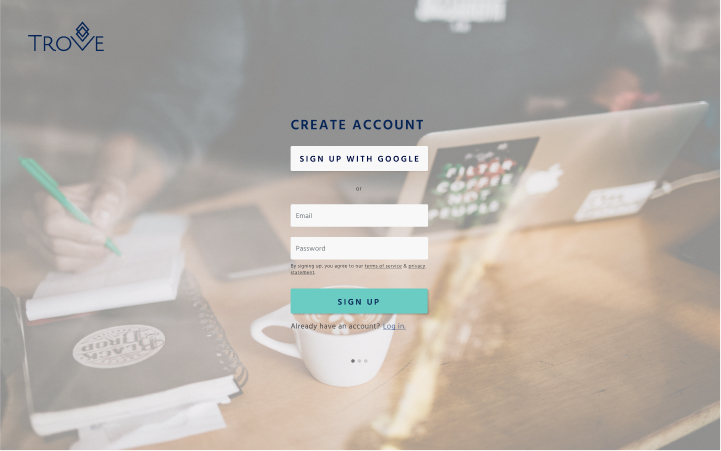
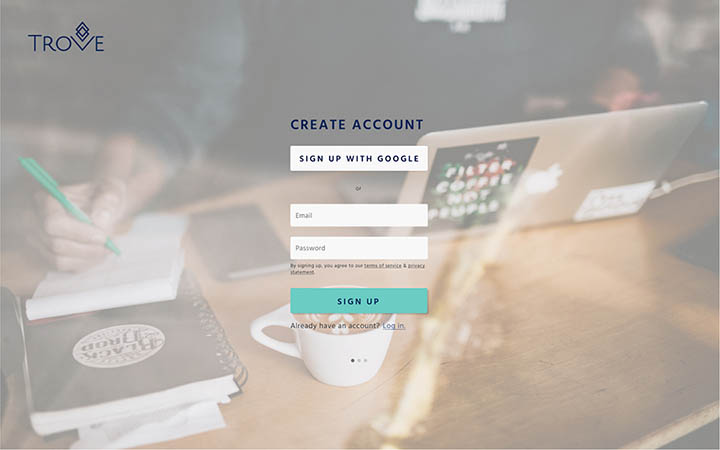
image optimization

diff --git a/project.html b/project.html
@@ -44,7 +44,7 @@
         </div>
         <div class="mobile-menu-list-container">
           <ul class="mobile-menu-list">
-            <a href="index.html" aria-label="my work">
+            <a href="index.html#featured-work" aria-label="my work">
               <li onclick="toggleMobileMenuItem()">Work</li>
             </a>
             <a href="about.html" aria-label="about me">
@@ -66,7 +66,7 @@
         <a href="index.html" aria-label="my work"><img src="assets/img/desktop-logo-LH.svg" alt="Laura Hundersmarck Logo"></img>
         </a>
         <ul>
-          <li><a href="index.html" aria-label="my work">Work</a></li>
+          <li><a href="index.html#featured-work" aria-label="my work">Work</a></li>
           <li><a href="about.html" aria-label="about page">About</a></li>
           <li>
             <div class="nav-button">
@@ -446,22 +446,22 @@
           </div>
           <div class="teal-background">
             <figure class="wireframe-group-flex-container">
-              <img data-aos-easing="ease" data-aos-duration="1500" data-aos-delay="0" data-aos="fade-in" class="project-image wireframe-img" srcset="assets/img-project/wireframe1-dashboard-720w.png 720w,
+              <img  class="project-image wireframe-img" srcset="assets/img-project/wireframe1-dashboard-720w.png 720w,
               assets/img-project/wireframe1-dashboard-1440w.png 1440w" sizes: "(max-width: 720px) 720px, 1440px" src="assets/img-project/wireframe1-dashboard-1440w.png" alt="Low-fi Wireframe of the main dashboard">
               </img>
-              <img data-aos-easing="ease" data-aos-duration="1500" data-aos-delay="0" data-aos="fade-in"class="project-image wireframe-img" srcset="assets/img-project/wireframe2-add-720w.png 720w,
+              <img class="project-image wireframe-img" srcset="assets/img-project/wireframe2-add-720w.png 720w,
               assets/img-project/wireframe2-add-1440w.png 1440w" sizes: "(max-width: 720px) 720px, 1440px" src="assets/img-project/wireframe2-add-1440w.png" alt="Low-fi Wireframe of how to add a note">
               </img>
-              <img data-aos-easing="ease" data-aos-duration="1500" data-aos-delay="0" data-aos="fade-in" class="project-image wireframe-img" srcset="assets/img-project/wireframe3-view-tags-720w.png 720w,
+              <img class="project-image wireframe-img" srcset="assets/img-project/wireframe3-view-tags-720w.png 720w,
               assets/img-project/wireframe3-view-tags-1440w.png 1440w" sizes: "(max-width: 720px) 720px, 1440px" src="assets/img-project/wireframe3-view-tags-1440w.png" alt="Low-fi Wireframe of the tags page">
               </img>
-              <img data-aos-easing="ease" data-aos-duration="1500" data-aos-delay="0" data-aos="fade-in" class="project-image wireframe-img" srcset="assets/img-project/wireframe4-bookmark-added-720w.png 720w,
+              <img  class="project-image wireframe-img" srcset="assets/img-project/wireframe4-bookmark-added-720w.png 720w,
               assets/img-project/wireframe4-bookmark-added-1440w.png 1440w" sizes: "(max-width: 720px) 720px, 1440px" src="assets/img-project/wireframe4-bookmark-added-1440w.png" alt="Low-fi Wireframe of confirmation screen when user adds a bookmark">
               </img>
-              <img data-aos-easing="ease" data-aos-duration="1500" data-aos-delay="0" data-aos="fade-in" class="project-image wireframe-img" srcset="assets/img-project/wireframe5-tag-720w.png 720w,
+              <img  class="project-image wireframe-img" srcset="assets/img-project/wireframe5-tag-720w.png 720w,
               assets/img-project/wireframe5-tag-1440w.png 1440w" sizes: "(max-width: 720px) 720px, 1440px" src="assets/img-project/wireframe5-tag-1440w.png" alt="Low-fi Wireframes of saving a link">
               </img>
-              <img data-aos-easing="ease" data-aos-duration="1500" data-aos-delay="0" data-aos="fade-in" class="project-image wireframe-img" srcset="assets/img-project/wireframe6-shared-720w.png 720w,
+              <img  class="project-image wireframe-img" srcset="assets/img-project/wireframe6-shared-720w.png 720w,
               assets/img-project/wireframe6-shared-1440w.png 1440w" sizes: "(max-width: 720px) 720px, 1440px" src="assets/img-project/wireframe6-shared-1440w.png" alt="Low-fi Wireframe showing shared items">
               </img>
             </figure>
@@ -557,9 +557,7 @@
           </div>
           <figure class="logo-figure">
             <img class="project-image" srcset="assets/img-project/trove-logo-480w.png 480w,
-            assets/img-project/trove-logo-720w.png 720w,
-            assets/img-project/trove-logo-960w.png 960w" sizes: "(max-width:480px) 480px,
-            (max-width: 720px) 720px, 960px" src="assets/img-project/trove-logo-960w.png" alt="Image of early sketches and final logo">
+            assets/img-project/trove-logo-720w.png 720w" sizes: "(max-width:480px) 480px, 720px" src="assets/img-project/trove-logo-720w.png" alt="Image of early sketches and final logo">
             </img>
             <figcaption>Early logo sketches [first row], three logo directions [second row], and the final logo [third row].</figcaption>
           </figure>
@@ -585,11 +583,15 @@
             <figure class="a-b-flex-container">
               <div class="option-a">
                 <p class="a-b-header"><span>Screen A</span></p>
-                <img class="a-b-img" srcset="assets/img-project/landing-page-hero-720w.jpg 720w,
-                assets/img-project/landing-page-hero-1080w.jpg 1080w" sizes: "(max-width: 720px) 720px, 1080px" src="assets/img-project/landing-page-hero-1080w.jpg" alt="Product hero image">
+                <img class="a-b-img"
+                srcset="assets/img-project/landing-page-hero-720w.jpg 720w,
+                assets/img-project/landing-page-hero-900w.jpg 900w"
+                sizes: "(max-width: 720px) 720px, 900px"
+                src="assets/img-project/landing-page-hero-900w.jpg" alt="Product hero image">
                 </img>
                 <img class="a-b-img" srcset="assets/img-project/testing-signup-a-720w.jpg 720w,
-                assets/img-project/testing-signup-a-1080w.jpg 1080w" sizes: "(max-width: 720px) 720px, 1080px" src="assets/img-project/testing-signup-a-1080w.jpg" alt="Product sign up screen A">
+                assets/img-project/testing-signup-a-900w.jpg 900w" sizes: "(max-width: 720px) 720px, 900px"
+                src="assets/img-project/testing-signup-a-900w.jpg" alt="Product sign up screen A">
                 </img>
                 <figcaption>Hero image [above] and sign up screen [below]</figcaption>
               </div>
@@ -600,19 +602,19 @@
                 <img class="a-b-img"
                   srcset=
                   "assets/img-project/landing-page-hero-720w.jpg 720w,
-                  assets/img-project/landing-page-hero-1080w.jpg 1080w"
+                  assets/img-project/landing-page-hero-900w.jpg 900w"
                   sizes:
                   "(max-width: 720px) 720px,1080px"
-                  src="assets/img-project/landing-page-hero-1080w.jpg"
+                  src="assets/img-project/landing-page-hero-900w.jpg"
                   alt="Product hero image">
                 </img>
                 <img class="a-b-img"
                   srcset=
                   "assets/img-project/testing-signup-b-720w.jpg 720w,
-                  assets/img-project/testing-signup-b-1080w.jpg 1080w"
+                  assets/img-project/testing-signup-b-900w.jpg 900w"
                   sizes:
-                  "(max-width: 720px) 720px, 1080px"
-                  src="assets/img-project/testing-signup-b-1080w.jpg"
+                  "(max-width: 720px) 720px, 900px"
+                  src="assets/img-project/testing-signup-b-900w.jpg"
                   alt="Product sign up screen B">
                 </img>
                 <figcaption class="centered-caption">Hero image [above] and sign up screen [below]</figcaption>
@@ -689,7 +691,8 @@
             </div>
             <figure class="testing-2-fig-flex-container">
               <div class="testing-2-before">
-                <img class="project-image testing-tags"  src="assets/img-project/hifi-testing-tags-before-552w.png" alt="content card showing tags">
+                <img class="project-image testing-tags" srcset="assets/img-project/hifi-testing-tags-before-450w.png 450w,
+                  assets/img-project/hifi-testing-tags-before-600w.png 600w" sizes: "(max-width: 500px) 450px, 600px"  src="assets/img-project/hifi-testing-tags-before-600w.png" alt="content card showing tags">
                 </img>
                 <figcaption>Before - Tags shown on content cards</figcaption>
               </div>
@@ -698,7 +701,8 @@
                 <img class="curved-arrow" src="assets/img-project/curved-arrow.svg" alt="Curved arrow"></img>
               </div>
               <div class="testing-2-after">
-                <img class="project-image testing-tags" src="assets/img-project/hifi-testing-tags-after-552w.png" alt="content card showing tag icon">
+                <img class="project-image testing-tags" srcset="assets/img-project/hifi-testing-tags-after-450w.png 450w,
+                  assets/img-project/hifi-testing-tags-after-600w.png 600w" sizes: "(max-width: 500px) 450px, 600px"  src="assets/img-project/hifi-testing-tags-after-600w.png" alt="content card showing tag icon">
                 </img>
                 <figcaption>After - Tags collapsed to an icon and dropdown menu</figcaption>
               </div>
@@ -737,46 +741,46 @@
         </div>
         <div data-aos-easing="ease" data-aos-duration="1500" data-aos-delay="0" data-aos="fade-in" class="gray-background">
           <figure class="prototype-flex-container">
-            <img data-aos-easing="ease" data-aos-duration="1500" data-aos-delay="0" data-aos="fade-in" class="project-image" srcset="assets/img-project/prototype-screen1-720w.jpg 720w,
+            <img class="project-image" srcset="assets/img-project/prototype-screen1-720w.jpg 720w,
               assets/img-project/prototype-screen1-900w.jpg 900w, assets/img-project/prototype-screen1-1440w.jpg 1440w" sizes: "(max-width: 800px) 720px, (max-width: 1200px) 900px, 1440px" src="assets/img-project/prototype-screen1-1440w.jpg" alt="Trove Product: Sign up screen">
             </img>
-            <img data-aos-easing="ease" data-aos-duration="1500" data-aos-delay="0" data-aos="fade-in" class="project-image" srcset="assets/img-project/prototype-screen2-720w.jpg 720w,
+            <img class="project-image" srcset="assets/img-project/prototype-screen2-720w.jpg 720w,
               assets/img-project/prototype-screen2-900w.jpg 900w, assets/img-project/prototype-screen2-1440w.jpg 1440w" sizes: "(max-width: 800px) 720px, (max-width: 1200px) 900px, 1440px" src="assets/img-project/prototype-screen2-1440w.jpg" alt="Trove Product: Password Reset screen">
             </img>
-            <img data-aos-easing="ease" data-aos-duration="1500" data-aos-delay="0" data-aos="fade-in" class="project-image" srcset="assets/img-project/prototype-screen3-720w.jpg 720w,
+            <img  class="project-image" srcset="assets/img-project/prototype-screen3-720w.jpg 720w,
               assets/img-project/prototype-screen3-900w.jpg 900w, assets/img-project/prototype-screen3-1440w.jpg 1440w" sizes: "(max-width: 800px) 720px, (max-width: 1200px) 900px, 1440px" src="assets/img-project/prototype-screen3-1440w.jpg" alt="Trove Product: Blank state dashboard">
             </img>
-            <img data-aos-easing="ease" data-aos-duration="1500" data-aos-delay="0" data-aos="fade-in" class="project-image" srcset="assets/img-project/prototype-screen4-720w.jpg 720w,
+            <img  class="project-image" srcset="assets/img-project/prototype-screen4-720w.jpg 720w,
               assets/img-project/prototype-screen4-900w.jpg 900w, assets/img-project/prototype-screen4-1440w.jpg 1440w" sizes: "(max-width: 800px) 720px, (max-width: 1200px) 900px, 1440px" src="assets/img-project/prototype-screen4-1440w.jpg" alt="Trove Product: Main dashboard">
             </img>
-            <img data-aos-easing="ease" data-aos-duration="1500" data-aos-delay="0" data-aos="fade-in" class="project-image" srcset="assets/img-project/prototype-screen5-720w.jpg 720w,
+            <img class="project-image" srcset="assets/img-project/prototype-screen5-720w.jpg 720w,
               assets/img-project/prototype-screen5-900w.jpg 900w, assets/img-project/prototype-screen5-1440w.jpg 1440w" sizes: "(max-width: 800px) 720px, (max-width: 1200px) 900px, 1440px" src="assets/img-project/prototype-screen5-1440w.jpg" alt="Trove Product: Upload files">
             </img>
-            <img data-aos-easing="ease" data-aos-duration="1500" data-aos-delay="0" data-aos="fade-in" class="project-image" srcset="assets/img-project/prototype-screen6-720w.jpg 720w,
+            <img class="project-image" srcset="assets/img-project/prototype-screen6-720w.jpg 720w,
               assets/img-project/prototype-screen6-900w.jpg 900w, assets/img-project/prototype-screen6-1440w.jpg 1440w" sizes: "(max-width: 800px) 720px, (max-width: 1200px) 900px, 1440px" src="assets/img-project/prototype-screen6-1440w.jpg" alt="Trove Product: Add files to a folder">
             </img>
-            <img data-aos-easing="ease" data-aos-duration="1500" data-aos-delay="0" data-aos="fade-in" class="project-image" srcset="assets/img-project/prototype-screen7-720w.jpg 720w,
+            <img class="project-image" srcset="assets/img-project/prototype-screen7-720w.jpg 720w,
               assets/img-project/prototype-screen7-900w.jpg 900w, assets/img-project/prototype-screen7-1440w.jpg 1440w" sizes: "(max-width: 800px) 720px, (max-width: 1200px) 900px, 1440px" src="assets/img-project/prototype-screen7-1440w.jpg" alt="Trove Product: Move files modal window">
             </img>
-            <img data-aos-easing="ease" data-aos-duration="1500" data-aos-delay="0" data-aos="fade-in" class="project-image" srcset="assets/img-project/prototype-screen8-720w.jpg 720w,
+            <img  class="project-image" srcset="assets/img-project/prototype-screen8-720w.jpg 720w,
               assets/img-project/prototype-screen8-900w.jpg 900w, assets/img-project/prototype-screen8-1440w.jpg 1440w" sizes: "(max-width: 800px) 720px, (max-width: 1200px) 900px, 1440px" src="assets/img-project/prototype-screen8-1440w.jpg" alt="Trove Product: View search results">
             </img>
-            <img data-aos-easing="ease" data-aos-duration="1500" data-aos-delay="0" data-aos="fade-in" class="project-image" srcset="assets/img-project/prototype-screen9-720w.jpg 720w,
+            <img class="project-image" srcset="assets/img-project/prototype-screen9-720w.jpg 720w,
               assets/img-project/prototype-screen9-900w.jpg 900w, assets/img-project/prototype-screen9-1440w.jpg 1440w" sizes: "(max-width: 800px) 720px, (max-width: 1200px) 900px, 1440px" src="assets/img-project/prototype-screen9-1440w.jpg" alt="Trove Product: Tag item dropdown menu">
             </img>
-            <img data-aos-easing="ease" data-aos-duration="1500" data-aos-delay="0" data-aos="fade-in" class="project-image" srcset="assets/img-project/prototype-screen10-720w.jpg 720w,
+            <img class="project-image" srcset="assets/img-project/prototype-screen10-720w.jpg 720w,
               assets/img-project/prototype-screen10-900w.jpg 900w, assets/img-project/prototype-screen10-1440w.jpg 1440w" sizes: "(max-width: 800px) 720px, (max-width: 1200px) 900px, 1440px" src="assets/img-project/prototype-screen10-1440w.jpg" alt="Trove Product: Add a new note">
             </img>
-            <img data-aos-easing="ease" data-aos-duration="1500" data-aos-delay="0" data-aos="fade-in" class="project-image" srcset="assets/img-project/prototype-screen11-720w.jpg 720w,
+            <img class="project-image" srcset="assets/img-project/prototype-screen11-720w.jpg 720w,
               assets/img-project/prototype-screen11-900w.jpg 900w, assets/img-project/prototype-screen11-1440w.jpg 1440w" sizes: "(max-width: 800px) 720px, (max-width: 1200px) 900px, 1440px" src="assets/img-project/prototype-screen11-1440w.jpg" alt="Trove Product: Image opened from dashboard">
             </img>
-            <img data-aos-easing="ease" data-aos-duration="1500" data-aos-delay="0" data-aos="fade-in" class="project-image" srcset="assets/img-project/prototype-screen12-720w.jpg 720w,
+            <img class="project-image" srcset="assets/img-project/prototype-screen12-720w.jpg 720w,
               assets/img-project/prototype-screen12-900w.jpg 900w, assets/img-project/prototype-screen12-1440w.jpg 1440w" sizes: "(max-width: 800px) 720px, (max-width: 1200px) 900px, 1440px" src="assets/img-project/prototype-screen12-1440w.jpg" alt="Trove Product: New folder added">
             </img>
-            <img data-aos-easing="ease" data-aos-duration="1500" data-aos-delay="0" data-aos="fade-in" class="project-image" srcset="assets/img-project/prototype-screen13-720w.jpg 720w,
+            <img  class="project-image" srcset="assets/img-project/prototype-screen13-720w.jpg 720w,
               assets/img-project/prototype-screen13-900w.jpg 900w, assets/img-project/prototype-screen13-1440w.jpg 1440w" sizes: "(max-width: 800px) 720px, (max-width: 1200px) 900px, 1440px" src="assets/img-project/prototype-screen13-1440w.jpg" alt="Trove Product: New bookmark modal window">
             </img>
-            <img data-aos-easing="ease" data-aos-duration="1500" data-aos-delay="0" data-aos="fade-in" class="project-image" srcset="assets/img-project/prototype-screen14-720w.jpg 720w,
+            <img  srcset="assets/img-project/prototype-screen14-720w.jpg 720w,
               assets/img-project/prototype-screen14-900w.jpg 900w, assets/img-project/prototype-screen14-1440w.jpg 1440w" sizes: "(max-width: 800px) 720px, (max-width: 1200px) 900px, 1440px" src="assets/img-project/prototype-screen14-1440w.jpg" alt="Trove Product: Items tagged as personal">
             </img>
           </figure>

diff --git a/index.html b/index.html
@@ -65,7 +65,7 @@
         <a href="index.html" aria-label="my work"><img src="assets/img/desktop-logo-LH.svg" alt="Laura Hundersmarck Logo"></img>
         </a>
         <ul>
-          <li><a href="index.html" aria-label="my work">Work</a></li>
+          <li><a href="#featured-work" aria-label="my work">Work</a></li>
           <li><a href="about.html" aria-label="about page">About</a></li>
           <li>
             <div class="nav-button">
@@ -100,7 +100,7 @@
       </section>
       <!-- other sections below -->
       <section data-aos-easing="ease" data-aos-duration="1500" data-aos-delay="0" data-aos="fade-in" class="featured-work" id="featured-work">
-        <h3 id="featured-page" class="center-headers">FEATURED WORK</h3>
+        <h3 class="center-headers">FEATURED WORK</h3>
         <div class="project-card">
           <a href="project.html">
             <article class="project1">

diff --git a/about.html b/about.html
@@ -45,7 +45,7 @@
         </div>
         <div class="mobile-menu-list-container">
           <ul class="mobile-menu-list">
-            <a href="index.html" aria-label="my work">
+            <a href="index.html#featured-work" aria-label="my work">
               <li onclick="toggleMobileMenuItem()">Work</li>
             </a>
             <a href="about.html" aria-label="about me">
@@ -67,7 +67,7 @@
         <a href="index.html" aria-label="my work"><img src="assets/img/desktop-logo-LH.svg" alt="Laura Hundersmarck Logo"></img>
         </a>
         <ul>
-          <li><a href="index.html" aria-label="my work">Work</a></li>
+          <li><a href="index.html#featured-work" aria-label="my work">Work</a></li>
           <li><a href="about.html" aria-label="about page">About</a></li>
           <li>
             <div class="nav-button">

diff --git a/attribution.html b/attribution.html
@@ -44,7 +44,7 @@
         </div>
         <div class="mobile-menu-list-container">
           <ul class="mobile-menu-list">
-            <a href="index.html" aria-label="my work">
+            <a href="index.html#featured-work" aria-label="my work">
               <li onclick="toggleMobileMenuItem()">Work</li>
             </a>
             <a href="about.html" aria-label="about me">
@@ -66,7 +66,7 @@
         <a href="index.html" aria-label="my work"><img src="assets/img/desktop-logo-LH.svg" alt="Laura Hundersmarck Logo"></img>
         </a>
         <ul>
-          <li><a href="index.html" aria-label="my work">Work</a></li>
+          <li><a href="index.html#featured-work" aria-label="my work">Work</a></li>
           <li><a href="about.html" aria-label="about page">About</a></li>
           <li>
             <div class="nav-button">
